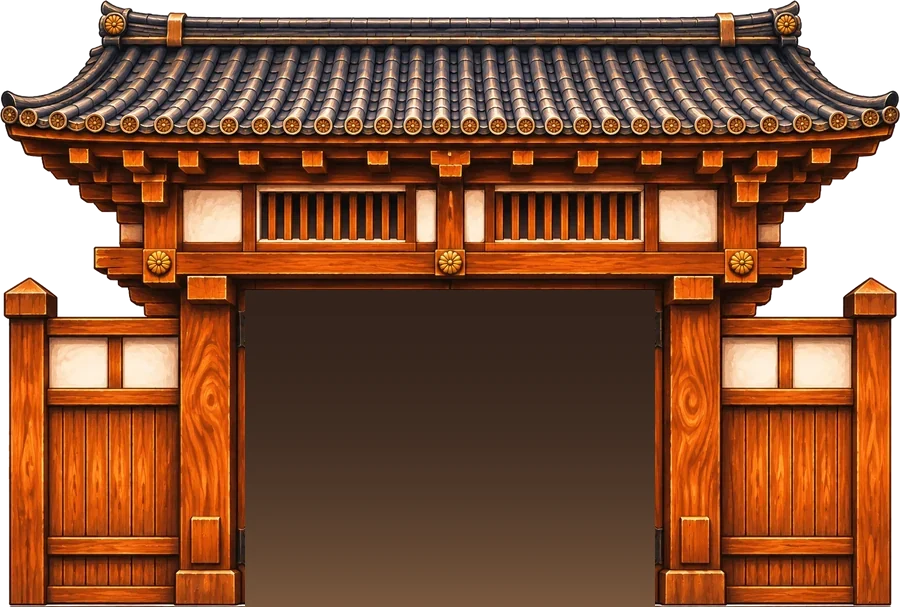
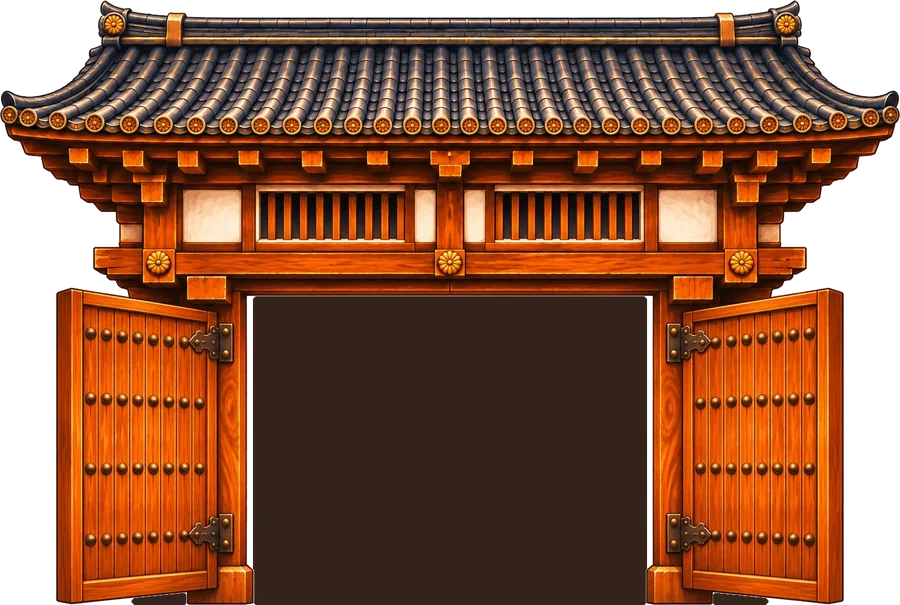
建物の絵を足す（開いた大手門・白壁・奥へ渡る橋）。絵の大きさを整える
- 開いた大手門は、もらった絵に替えた（とびらを暗くぬって作るのはやめた）
- 橋は、奥へ渡る絵に替えた（横から見た絵は bridge-side として残す）
- 白壁は、石垣と同じく横にくり返して並べる

Claude-Session: https://claude.ai/code/session_01U9i96bNyCLMGvYMbYha5MW

diff --git a/src/ui/draw.ts b/src/ui/draw.ts
@@ -744,7 +744,10 @@ function open(c: Ctx, p: P) {
 // ─── 絵に差し替えたとき ─────────────────────────────────────
 
 /** 横にくり返して並べる絵と、その高さ */
-const ART_TILES: Record<string, number> = { stonewall: 62, wall: 46 }
+const ART_TILES: Record<string, number> = { stonewall: 62, wall: 80 }
+
+/** 高さを決めて置く絵（奥へ渡る橋は、たてにつぶして、川をまたぐ長さにする）。[高さ, 足もとを下げる量] */
+const ART_HEIGHTS: Record<string, [number, number]> = { bridge: [92, 8] }
 
 /**
  * 絵の建物に付ける看板の場所（絵の幅・高さに対する割合）と形。
@@ -890,8 +893,9 @@ export function drawBackdrop(
         continue
       }
       // 絵は、幅を部品の幅に合わせ、足もとを建物の足もとにそろえる
-      const h = (p.w * img.height) / img.width
-      c.drawImage(img, p.x, BASE_Y - h, p.w, h)
+      const fixed = ART_HEIGHTS[p.kind]
+      const h = fixed ? fixed[0] : (p.w * img.height) / img.width
+      c.drawImage(img, p.x, BASE_Y + (fixed ? fixed[1] : 0) - h, p.w, h)
       if (p.sign) artSign(c, p, h)
       continue
     }

diff --git a/src/ui/art.ts b/src/ui/art.ts
@@ -23,11 +23,11 @@ export const ART_WIDTHS: Record<string, number> = {
   ginkgo: 160,
   bell: 130,
   kido: 190,
-  castlegate: 250,
-  toro: 60,
-  tenshu: 215,
-  jizo: 56,
-  bridge: 230,
+  castlegate: 230,
+  toro: 50,
+  tenshu: 210,
+  jizo: 46,
+  bridge: 120,
   pier: 260,
 }
 

diff --git a/scripts/make_town_art.py b/scripts/make_town_art.py
@@ -40,6 +40,9 @@ ART = {
     'tenshu': {},
     'jizo': {},
     'bridge': {'holes': True},
+    'bridge-side': {'holes': True},
+    'castlegate-open': {'door': True},
+    'wall': {},
     'pier': {'holes': True},
 }
 
@@ -90,23 +93,6 @@ def build(name, opt):
     return out
 
 
-def open_gate():
-    """大手門の、開いた絵を作る（とびらのところを、暗い色でぬる）。開いた絵をもらったら、これはやめる"""
-    im = Image.open(ROOT / 'art' / 'town' / 'castlegate.webp').convert('RGBA')
-    w, h = im.size
-    x0, x1, y0 = round(w * 0.272), round(w * 0.728), round(h * 0.478)
-    door = Image.new('RGBA', (x1 - x0, h - y0), DOOR + (255,))
-    # 奥の明るさ（下のほうを、少し明るく）
-    px = door.load()
-    for y in range(door.height):
-        t = y / door.height
-        for x in range(door.width):
-            px[x, y] = (round(52 + 70 * t * t), round(36 + 52 * t * t), round(28 + 34 * t * t), 255)
-    im.paste(door, (x0, y0))
-    im.save(ROOT / 'art' / 'town' / 'castlegate-open.webp', 'WEBP', quality=86, method=6)
-
-
 if __name__ == '__main__':
     for name, opt in ART.items():
         build(name, opt)
-    open_gate()
